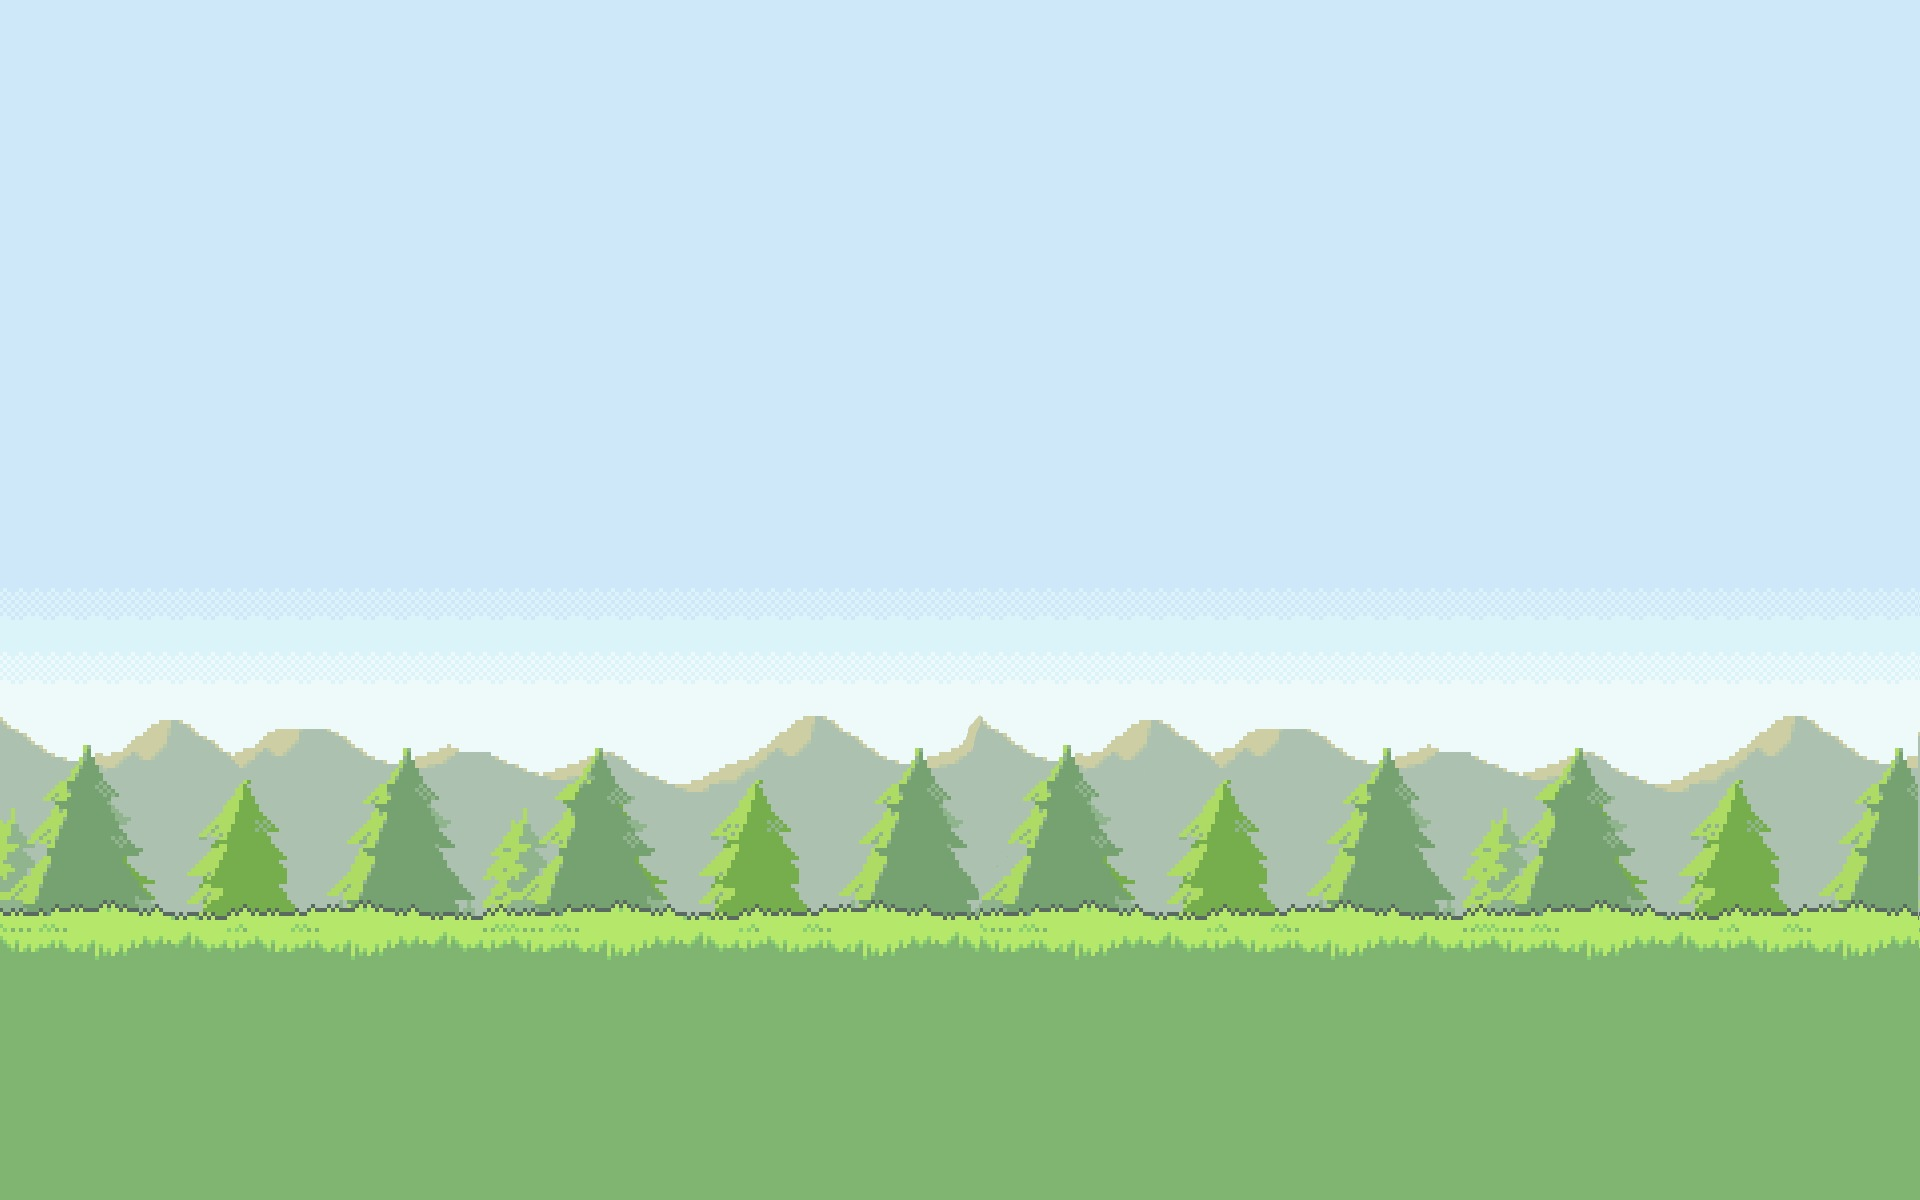
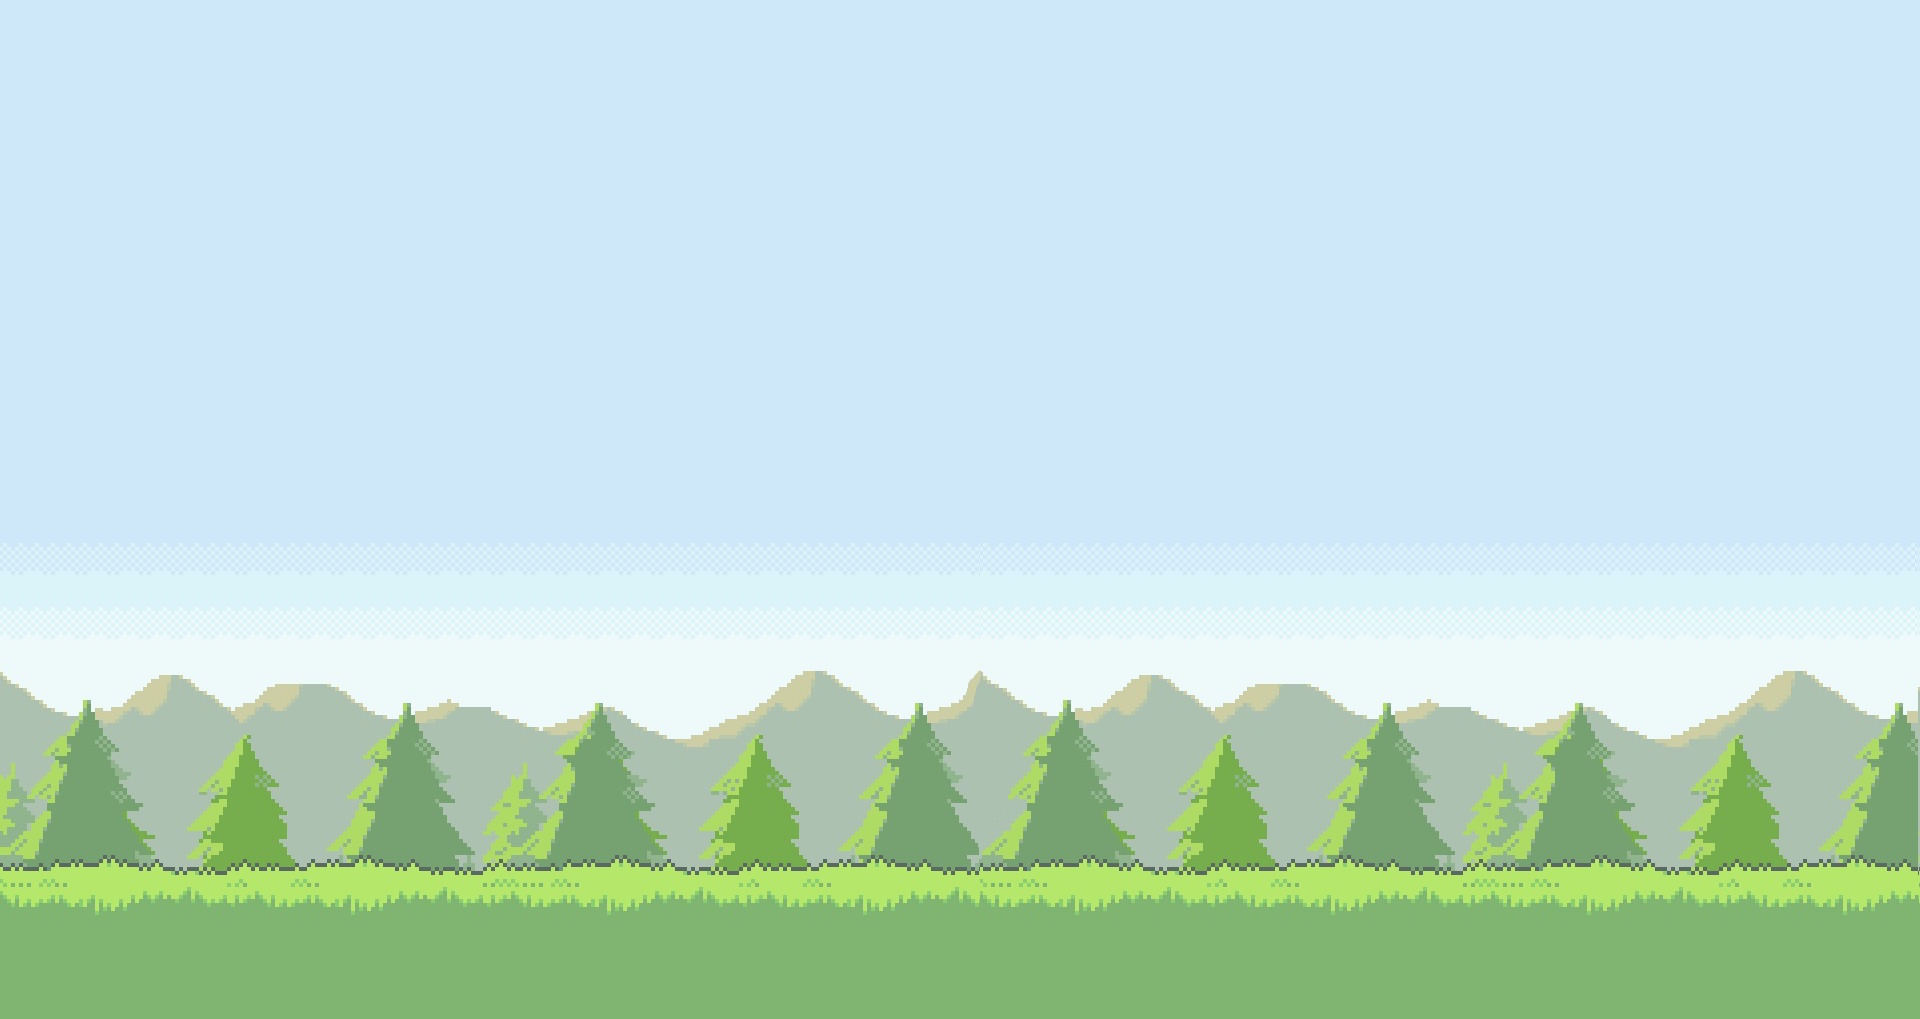
start footer

Changed region(s): [[0.0, 0.578, 1.0, 0.9127]]

diff --git a/app/assets/stylesheets/styles.scss b/app/assets/stylesheets/styles.scss
@@ -6,11 +6,12 @@ $find-panel-bg: #d8d8d8;
 $find-panel-border: #a4a4a4;
 $equip-panel-color: #333333;
 $header-color: #008cba;
+$footer-text-color: #ffffff;
 
 body {
   background-image: image-url("landscape1.jpg");
   background-attachment: fixed;
-  background-position: center;
+  background-position: bottom;
 }
 
 h1 {
@@ -98,4 +99,25 @@ th .desc:after {
 
 #equipped {
   height: 474px;
+}
+
+.page-wrap {
+  min-height: 100%;
+  margin-bottom: -90px;
+}
+
+.page-wrap:after {
+  content: "";
+  display: block;
+}
+
+.footer, .page-wrap:after {
+  height: 90px;
+}
+
+.footer {
+  background-color: $header-color;
+  color: $footer-text-color;
+  font-family: "Montserrat", sans-serif;
+  padding: 10px 30px;
 }
